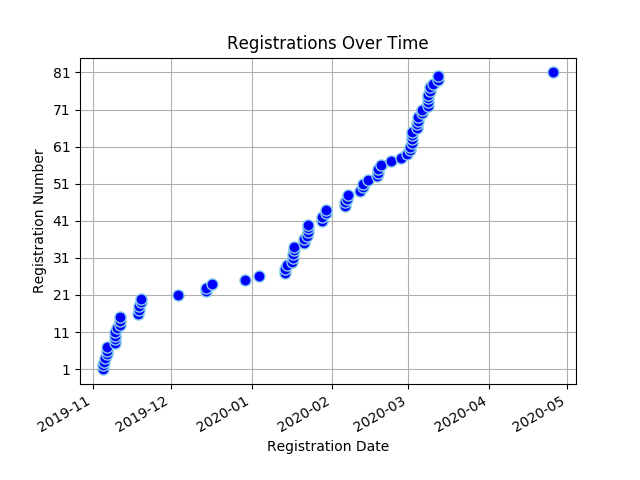
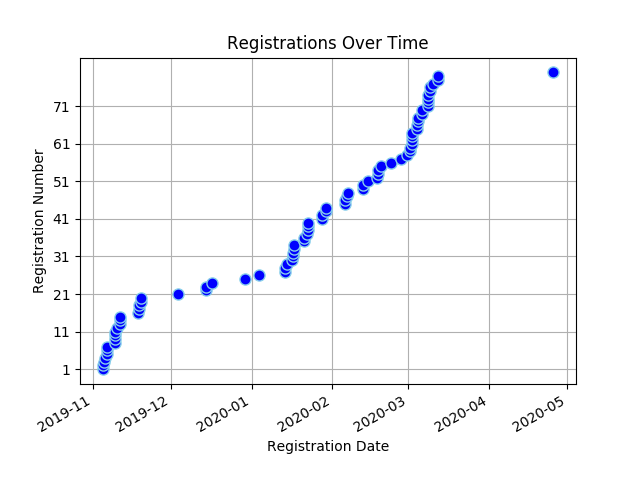
Registree stats backup on Fri May 15 17:36:47 SAST 2020

Changed region(s): [[0.0625, 0.2188, 0.875, 0.6875], [0.1562, 0.6875, 0.1875, 0.75], [0.0625, 0.125, 0.125, 0.1562]]

diff --git a/content/registrees/_index.md b/content/registrees/_index.md
@@ -3,7 +3,7 @@ title: Registration Stats
 draft: false
 ---
 
-<ul><li><strong>Number of Registrees</strong>: 81</li>
+<ul><li><strong>Number of Registrees</strong>: 80</li>
 
 <li><strong>Number of Clubs</strong>: 43</li>
 
@@ -30,6 +30,6 @@ draft: false
         </tr>
     </thead>
     <tbody>
-<tr><td>Linda Anderson</td><td>George</td></tr><tr><td>Tayebwa Smith Bamwesigye</td><td>Butterworth</td></tr><tr><td>Karl Bands</td><td>Helderkruin</td></tr><tr><td>Jonquille Bands</td><td>Helderkruin</td></tr><tr><td>Valencia Beukes</td><td>Kuilsriver</td></tr><tr><td>Annette Bothma</td><td>Fish Hoek</td></tr><tr><td>Jose Braga Borges</td><td>Malmesbury</td></tr><tr><td>Lynnette Virginia Christians</td><td>Cape Of Good Hope</td></tr><tr><td>Desiree Du Toit</td><td>Ramsgate</td></tr><tr><td>Bernd Gerhard</td><td>Wilro Park</td></tr><tr><td>Shirley Gerhard</td><td>Wilro Park</td></tr><tr><td>Valerie Graham</td><td>Nelspruit</td></tr><tr><td>Michael Graham</td><td>Nelspruit</td></tr><tr><td>Victor Hawla</td><td>Krugersdorp</td></tr><tr><td>Loriane Hawla</td><td>(Partner in Service)</td></tr><tr><td>Barbara Haywood</td><td>Eden</td></tr><tr><td>Wendy Higgins</td><td>Wilro Park</td></tr><tr><td>Trevor Hobbs</td><td>North Durban</td></tr><tr><td>Avril Hobbs</td><td>North Durban</td></tr><tr><td>Jacqui Hocking</td><td>Midrand</td></tr><tr><td>Cliff Hocking</td><td>Midrand</td></tr><tr><td>Leslie Human</td><td>East London Port Rex</td></tr><tr><td>Akinyemi Ismaila Tunde</td><td>-</td></tr><tr><td>Dawid Jacobs</td><td>Durbanville</td></tr><tr><td>Jean Jacobs</td><td>Mitchells Plain</td></tr><tr><td>Brenda Joshua</td><td>Cape Of Good Hope</td></tr><tr><td>Pascal Kabangu</td><td>Cape Of Good Hope</td></tr><tr><td>Ian King</td><td>Alberton</td></tr><tr><td>Sandy King</td><td>Alberton</td></tr><tr><td>Zwaai Krüger</td><td>Sedgefield</td></tr><tr><td>Bevil Lakay</td><td>Mitchells Plain</td></tr><tr><td>Paula Lang</td><td>Gordons Bay</td></tr><tr><td>James Malcolm Lang</td><td>Gordons Bay</td></tr><tr><td>Lance Maytham</td><td>Bredasdorp</td></tr><tr><td>Roy Michas</td><td>Midrand</td></tr><tr><td>Dawn Michas</td><td>Midrand</td></tr><tr><td>Patrick Mills</td><td>Centurion</td></tr><tr><td>Bernice Mills</td><td>Centurion</td></tr><tr><td>Alain Moulounda</td><td>Cape Of Good Hope</td></tr><tr><td>Suzanne Murray</td><td>Vereeniging</td></tr><tr><td>Pieter Nel</td><td>George</td></tr><tr><td>Michael Newlands</td><td>Port Alfred</td></tr><tr><td>Ramona Nulliah</td><td>Durban Host</td></tr><tr><td>Gary Nulliah</td><td>Durban Host</td></tr><tr><td>Teresa Pantoleon</td><td>Vereeniging</td></tr><tr><td>William Pfaff</td><td>North Durban</td></tr><tr><td>Patrick Pillay</td><td>Tygerberg Hills</td></tr><tr><td>Gavin Polkinghorne</td><td>Kensington</td></tr><tr><td>Tracey Polkinghorne</td><td>Kensington</td></tr><tr><td>Karin Preston</td><td>Durban South</td></tr><tr><td>Leon Ras</td><td>Swellendam</td></tr><tr><td>Mary-Anne Ras</td><td>Swellendam</td></tr><tr><td>Moira Rigby</td><td>Kingsburgh</td></tr><tr><td>David Rigby</td><td>Kingsburgh</td></tr><tr><td>Mark Rossouw</td><td>Tokai</td></tr><tr><td>Sharon Sampie</td><td>Bergvliet</td></tr><tr><td>Susanna Helena Smit</td><td>Centurion</td></tr><tr><td>Herman Smit</td><td>Swellendam</td></tr><tr><td>Berdine Smit</td><td>(Partner in Service)</td></tr><tr><td>Rochelle Smith</td><td>Cape Of Good Hope</td></tr><tr><td>Jeff Smith</td><td>Port Shepstone</td></tr><tr><td>Diane Townsend</td><td>Benoni Lakes</td></tr><tr><td>Kendyl Townsend</td><td>Benoni Lakes</td></tr><tr><td>Alex Tshikala</td><td>Athlone</td></tr><tr><td>Alistair Tuckett</td><td>Roodepoort Clearwater Cyber</td></tr><tr><td>Rowan Tuckett</td><td>Roodepoort Clearwater Cyber</td></tr><tr><td>Neville Van Rensburg</td><td>Moorreesburg</td></tr><tr><td>Joyce Wilcocks</td><td>Pretoria Jakaranda</td></tr><tr><td>Richard Williams</td><td>(Partner in Service)</td></tr><tr><td>Owolabi Williams Monzur</td><td>Badagry</td></tr><tr><td>Geila Wills</td><td>Cape Town</td></tr><tr><td>Patricia Wilson</td><td>Kingsburgh</td></tr><tr><td>Judy Young</td><td>Durbanville</td></tr><tr><td>Sydney van Heerden</td><td>Wilro Park</td></tr><tr><td>Sandy van Heerden</td><td>Wilro Park</td></tr><tr><td>Lindie van Wyk</td><td>Pretoria Jakaranda</td></tr><tr><td>Martha Maria van der Merwe</td><td>Malmesbury</td></tr><tr><td>Brian von der Decken</td><td>King William's Town</td></tr><tr><td>Janet von der Decken</td><td>(Partner in Service)</td></tr><tr><td>Andrew von der Decken</td><td>King William's Town</td></tr><tr><td>Ann von der Decken</td><td>King William's Town</td></tr>
+<tr><td>Tayebwa Smith Bamwesigye</td><td>Butterworth</td></tr><tr><td>Karl Bands</td><td>Helderkruin</td></tr><tr><td>Jonquille Bands</td><td>Helderkruin</td></tr><tr><td>Valencia Beukes</td><td>Kuilsriver</td></tr><tr><td>Annette Bothma</td><td>Fish Hoek</td></tr><tr><td>Jose Braga Borges</td><td>Malmesbury</td></tr><tr><td>Lynnette Virginia Christians</td><td>Cape Of Good Hope</td></tr><tr><td>Desiree Du Toit</td><td>Ramsgate</td></tr><tr><td>Bernd Gerhard</td><td>Wilro Park</td></tr><tr><td>Shirley Gerhard</td><td>Wilro Park</td></tr><tr><td>Valerie Graham</td><td>Nelspruit</td></tr><tr><td>Michael Graham</td><td>Nelspruit</td></tr><tr><td>Victor Hawla</td><td>Krugersdorp</td></tr><tr><td>Loriane Hawla</td><td>(Partner in Service)</td></tr><tr><td>Barbara Haywood</td><td>Eden</td></tr><tr><td>Wendy Higgins</td><td>Wilro Park</td></tr><tr><td>Trevor Hobbs</td><td>North Durban</td></tr><tr><td>Avril Hobbs</td><td>North Durban</td></tr><tr><td>Jacqui Hocking</td><td>Midrand</td></tr><tr><td>Cliff Hocking</td><td>Midrand</td></tr><tr><td>Leslie Human</td><td>East London Port Rex</td></tr><tr><td>Akinyemi Ismaila Tunde</td><td>-</td></tr><tr><td>Dawid Jacobs</td><td>Durbanville</td></tr><tr><td>Jean Jacobs</td><td>Mitchells Plain</td></tr><tr><td>Brenda Joshua</td><td>Cape Of Good Hope</td></tr><tr><td>Pascal Kabangu</td><td>Cape Of Good Hope</td></tr><tr><td>Ian King</td><td>Alberton</td></tr><tr><td>Sandy King</td><td>Alberton</td></tr><tr><td>Zwaai Krüger</td><td>Sedgefield</td></tr><tr><td>Bevil Lakay</td><td>Mitchells Plain</td></tr><tr><td>Paula Lang</td><td>Gordons Bay</td></tr><tr><td>James Malcolm Lang</td><td>Gordons Bay</td></tr><tr><td>Lance Maytham</td><td>Bredasdorp</td></tr><tr><td>Roy Michas</td><td>Midrand</td></tr><tr><td>Dawn Michas</td><td>Midrand</td></tr><tr><td>Patrick Mills</td><td>Centurion</td></tr><tr><td>Bernice Mills</td><td>Centurion</td></tr><tr><td>Alain Moulounda</td><td>Cape Of Good Hope</td></tr><tr><td>Suzanne Murray</td><td>Vereeniging</td></tr><tr><td>Pieter Nel</td><td>George</td></tr><tr><td>Michael Newlands</td><td>Port Alfred</td></tr><tr><td>Ramona Nulliah</td><td>Durban Host</td></tr><tr><td>Gary Nulliah</td><td>Durban Host</td></tr><tr><td>Teresa Pantoleon</td><td>Vereeniging</td></tr><tr><td>William Pfaff</td><td>North Durban</td></tr><tr><td>Patrick Pillay</td><td>Tygerberg Hills</td></tr><tr><td>Gavin Polkinghorne</td><td>Kensington</td></tr><tr><td>Tracey Polkinghorne</td><td>Kensington</td></tr><tr><td>Karin Preston</td><td>Durban South</td></tr><tr><td>Leon Ras</td><td>Swellendam</td></tr><tr><td>Mary-Anne Ras</td><td>Swellendam</td></tr><tr><td>Moira Rigby</td><td>Kingsburgh</td></tr><tr><td>David Rigby</td><td>Kingsburgh</td></tr><tr><td>Mark Rossouw</td><td>Tokai</td></tr><tr><td>Sharon Sampie</td><td>Bergvliet</td></tr><tr><td>Susanna Helena Smit</td><td>Centurion</td></tr><tr><td>Herman Smit</td><td>Swellendam</td></tr><tr><td>Berdine Smit</td><td>(Partner in Service)</td></tr><tr><td>Rochelle Smith</td><td>Cape Of Good Hope</td></tr><tr><td>Jeff Smith</td><td>Port Shepstone</td></tr><tr><td>Diane Townsend</td><td>Benoni Lakes</td></tr><tr><td>Kendyl Townsend</td><td>Benoni Lakes</td></tr><tr><td>Alex Tshikala</td><td>Athlone</td></tr><tr><td>Alistair Tuckett</td><td>Roodepoort Clearwater Cyber</td></tr><tr><td>Rowan Tuckett</td><td>Roodepoort Clearwater Cyber</td></tr><tr><td>Neville Van Rensburg</td><td>Moorreesburg</td></tr><tr><td>Joyce Wilcocks</td><td>Pretoria Jakaranda</td></tr><tr><td>Richard Williams</td><td>(Partner in Service)</td></tr><tr><td>Owolabi Williams Monzur</td><td>Badagry</td></tr><tr><td>Geila Wills</td><td>Cape Town</td></tr><tr><td>Patricia Wilson</td><td>Kingsburgh</td></tr><tr><td>Judy Young</td><td>Durbanville</td></tr><tr><td>Sydney van Heerden</td><td>Wilro Park</td></tr><tr><td>Sandy van Heerden</td><td>Wilro Park</td></tr><tr><td>Lindie van Wyk</td><td>Pretoria Jakaranda</td></tr><tr><td>Martha Maria van der Merwe</td><td>Malmesbury</td></tr><tr><td>Brian von der Decken</td><td>King William's Town</td></tr><tr><td>Janet von der Decken</td><td>(Partner in Service)</td></tr><tr><td>Andrew von der Decken</td><td>King William's Town</td></tr><tr><td>Ann von der Decken</td><td>King William's Town</td></tr>
 </tbody>
 </table>

diff --git a/content/full_stats/_index.md b/content/full_stats/_index.md
@@ -17,34 +17,34 @@ draft: false
 <body>
 <h1 style="color: #000000;">Full Registration Stats</h1>
 <ul><li><strong>Number of Registrees</strong><ul>
-<li><strong>Total</strong>: 81</li>
-<li><strong>Lions</strong>: 77</li>
+<li><strong>Total</strong>: 80</li>
+<li><strong>Lions</strong>: 76</li>
 <li><strong>Partners In Service</strong>: 4</li>
 </ul>
 <li><strong>Number of Clubs</strong>: 43</li>
 <li><strong>Clubs With Most Attendees</strong>: Cape Of Good Hope, Wilro Park (5 registrees)</li>
-<li><strong>Registrations</strong></li><ul><li><strong>Full</strong>: 78
+<li><strong>Registrations</strong></li><ul><li><strong>Full</strong>: 77
 <li><strong>Banquet</strong>: 1
 <li><strong>Convention</strong>: 2
 <li><strong>Theme</strong>: 1
 </ul><li><strong>Extra Items</strong></li><ul>
-<li><strong>Pins</strong>: 72
+<li><strong>Pins</strong>: 71
 </ul><li><strong>Extra Activities</strong></li><ul>
 <li><strong>MJF Lunch</strong>: 23
 <li><strong>PDG Breakfast</strong>: 16
 <li><strong>Sharks Board</strong>: 4
 <li><strong>Golf</strong>: 2
 <li><strong>Sight Seeing</strong>: 11
-<li><strong>Service Project</strong>: 13
+<li><strong>Service Project</strong>: 12
 <li><strong>Partner Program</strong>: 4
 </ul>
 <li><strong>Payment Details</strong></li><ul>
-<li><strong>Total Owed:</strong> R105940.00</li>
-<li><strong>Paid:</strong> R49615.00</li>
+<li><strong>Total Owed:</strong> R104600.00</li>
+<li><strong>Paid:</strong> R48275.00</li>
 <li><strong>Still Owed:</strong> R56325.00</li>
-<li><strong>Number of Attendees Who Have Paid in Full:</strong> 35 (43.21%)</li>
-<li><strong>Number of Attendees Who Have Paid in Part:</strong> 8 (9.88%)</li>
-<li><strong>Number of Attendees Who Haven't Paid Anything:</strong> 38 (46.91%)</li>
+<li><strong>Number of Attendees Who Have Paid in Full:</strong> 34 (42.50%)</li>
+<li><strong>Number of Attendees Who Have Paid in Part:</strong> 8 (10.00%)</li>
+<li><strong>Number of Attendees Who Haven't Paid Anything:</strong> 38 (47.50%)</li>
 </ul>
 <li><strong>Cancellations</strong></li><ul>
 <li>20-02-07 McCullough, David (reg number: 058)</li>
@@ -86,6 +86,7 @@ draft: false
 <li>20-05-08 Nel, Tillie (reg number: 090)</li>
 <li>20-05-13 Theron, Moira (reg number: 061)</li>
 <li>20-05-13 Theron, Pierre (reg number: 060)</li>
+<li>20-05-15 Anderson, Linda (reg number: 089)</li>
 </ul>
 <li><strong>Dietary Requirements</strong></li><ul>
 <li>Allergic to Shellfish</li>
@@ -94,7 +95,6 @@ draft: false
 <li>Halal</li>
 <li>No Lamb</li>
 <li>No fish or mushrooms</li>
-<li>No fish please </li>
 <li>No gluten, starch or sugar (including fruit) No tea or coffee.</li>
 <li>no seafood</li>
 </ul>
@@ -131,17 +131,6 @@ StillOwed
 </thead>
 <tbody>
 
-<tr style="background-color: lightgreen">
-<td>89</td>
-<td>Linda Anderson</td>
-<td>George</td>
-<td>Linda Anderson</td>
-<td>1340.00</td>
-<td>1340.00</td>
-<td>0.00</td>
-</tr>
-
-    
 <tr style="background-color: yellow">
 <td>131</td>
 <td>Tayebwa Smith Bamwesigye</td>
